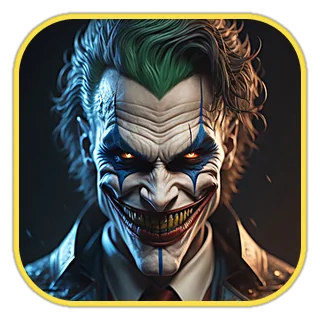
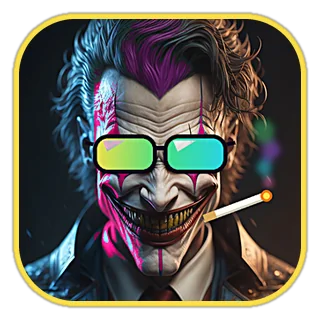
Le Labo : Boss retouché (cheveux violets, maquillage rose néon, lunettes arc-en-ciel, joint)
Le visage ressemblait trop à un personnage connu : couleurs changées et yeux cachés pour en faire le Boss du Labo.
Cache spinbet-v12.

Claude-Session: https://claude.ai/code/session_017EaWtL9mGHHqnePr7Tdfev

Changed region(s): [[0.2812, 0.2188, 0.75, 0.8438], [0.375, 0.0312, 0.5938, 0.3125], [0.625, 0.375, 0.875, 0.7188]]

diff --git a/index.html b/index.html
@@ -7248,7 +7248,7 @@ __mods['updates.js'] = (() => {
 const { getGame } = __mods['games/index.js'];
 
 const UPDATES = [
-  { game: 'labo', date: '2026-11-01', title: 'Le Boss et la mallette', items: ['Nouveau Boss en symbole premium', 'Nouvelle mallette qui lance le bonus', 'Le démon au-dessus des rouleaux est retiré : le festival se voit mieux'] },
+  { game: 'labo', date: '2026-11-01', title: 'Le Boss et la mallette', items: ['Nouveau Boss en symbole premium : cheveux violets, lunettes arc-en-ciel et joint', 'Nouvelle mallette qui lance le bonus', 'Le démon au-dessus des rouleaux est retiré : le festival se voit mieux'] },
   { game: 'labo', date: '2026-11-01', title: 'Joint, champignon et taz pailletée', items: ['Nouveau joint et nouveau champignon magique', 'Nouvelle taz pailletée dans La Mallette : le hippie au sac qui aspire toutes les taz'] },
   { game: 'labo', date: '2026-11-01', title: 'Le Labo prend vie', items: ['Nouvelle jaquette et nouveau décor : le festival', 'Nouveaux symboles : feuille, cachet diamant, buvard LSD, cachet rose, poudre, cachet brique et le Boss', 'Nouveau WILD et nouveau SCATTER : les hippies', 'Nouvelle feuille et feuille d’or dans La Mallette'] },
   { game: 'labo', date: '2026-11-01', title: 'Nouveau bonus La Mallette', items: ['5 tours, remis à 5 à chaque nouvelle taz : la fumée verte au milieu récolte les multiplicateurs', '3 taz : brique (petite), violette (moyenne) et diamant (gros multiplicateurs), de ×0,2 à ×20 la mise', 'Feuille : ×2 sur les taz autour · Feuille d’or : ×2 sur toutes les taz', 'Taz magique : aspire toutes les taz et garde leur valeur · écran plein = jackpot Le Cartel ×1000'] },

diff --git a/sw.js b/sw.js
@@ -1,6 +1,6 @@
 // SpinBet Casino service worker: makes the site installable and opens it even on a weak connection.
 // Pages are network-first (updates show up right away), the app's own images are cache-first.
-const CACHE = 'spinbet-v11';
+const CACHE = 'spinbet-v12';
 const CORE = ['./', './index.html', './manifest.webmanifest', './assets/icon-192.png', './assets/icon-512.png'];
 
 self.addEventListener('install', (e) => {
